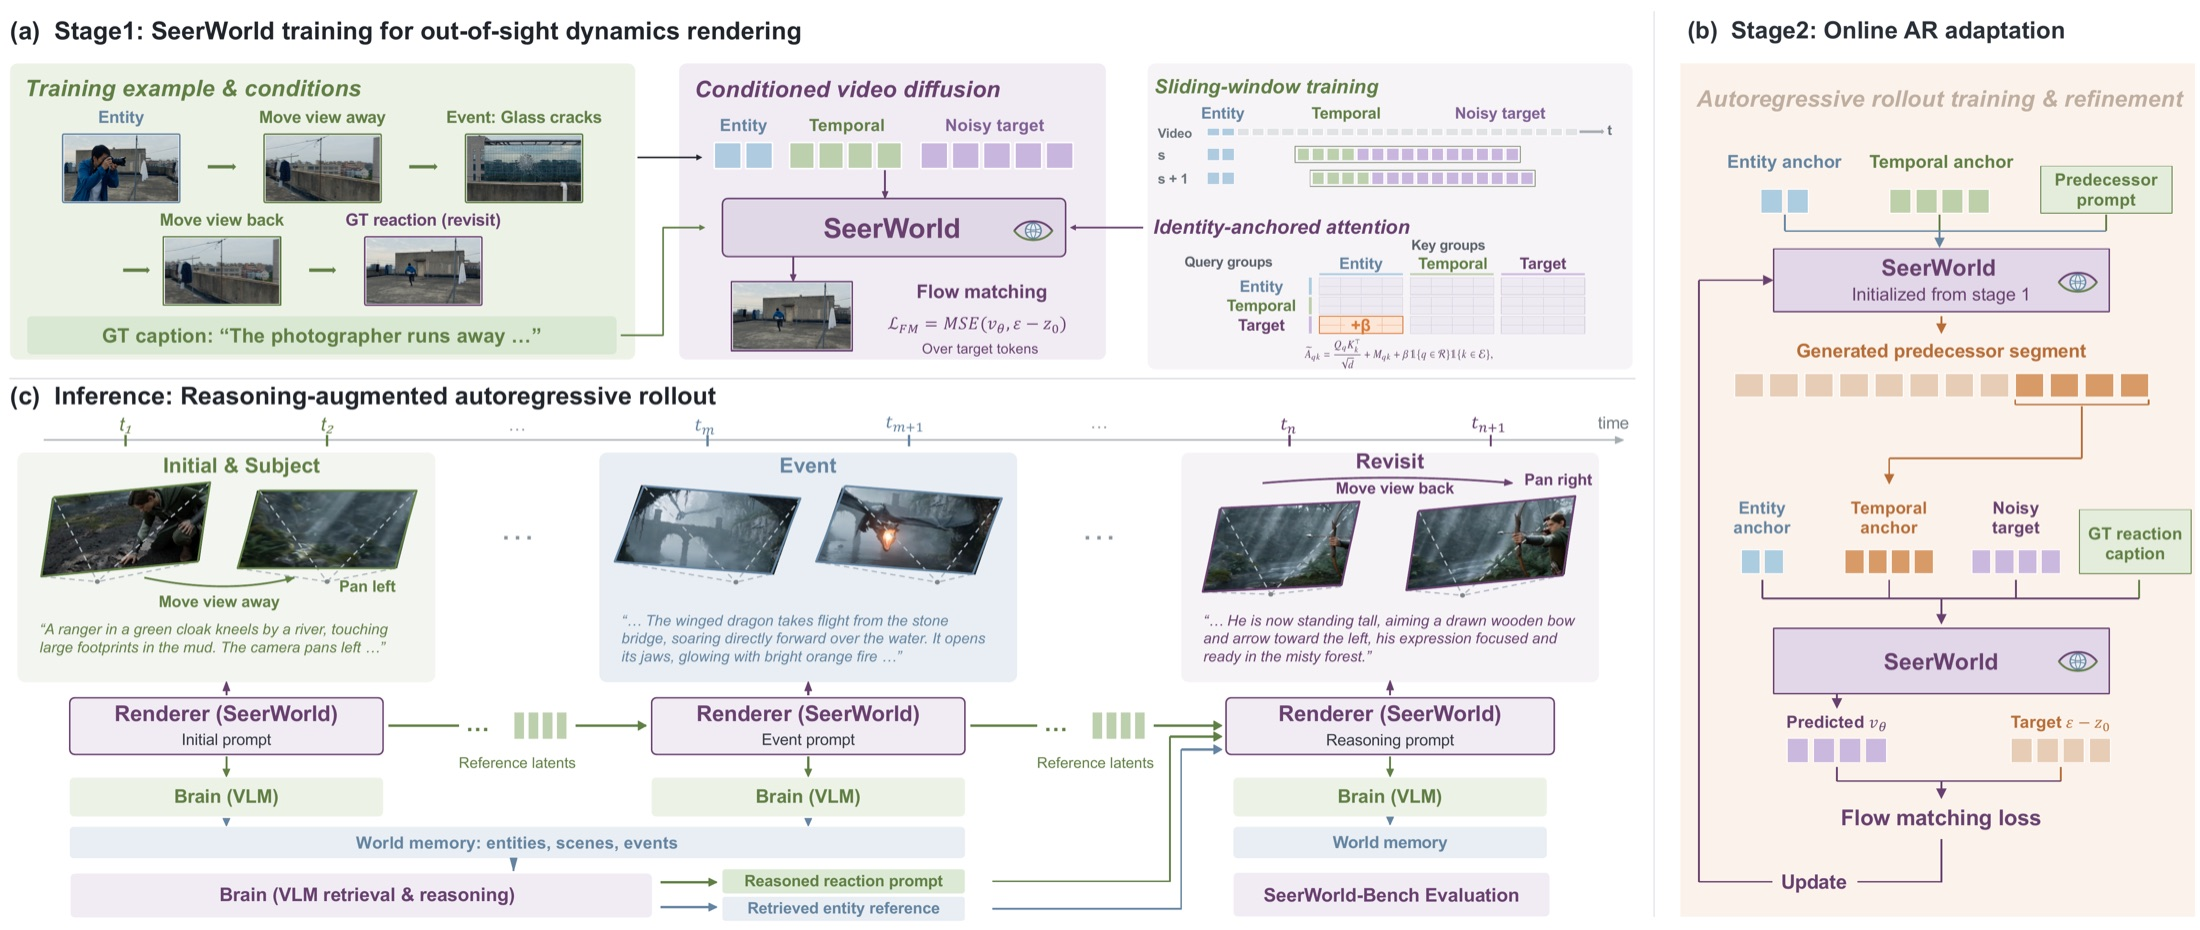
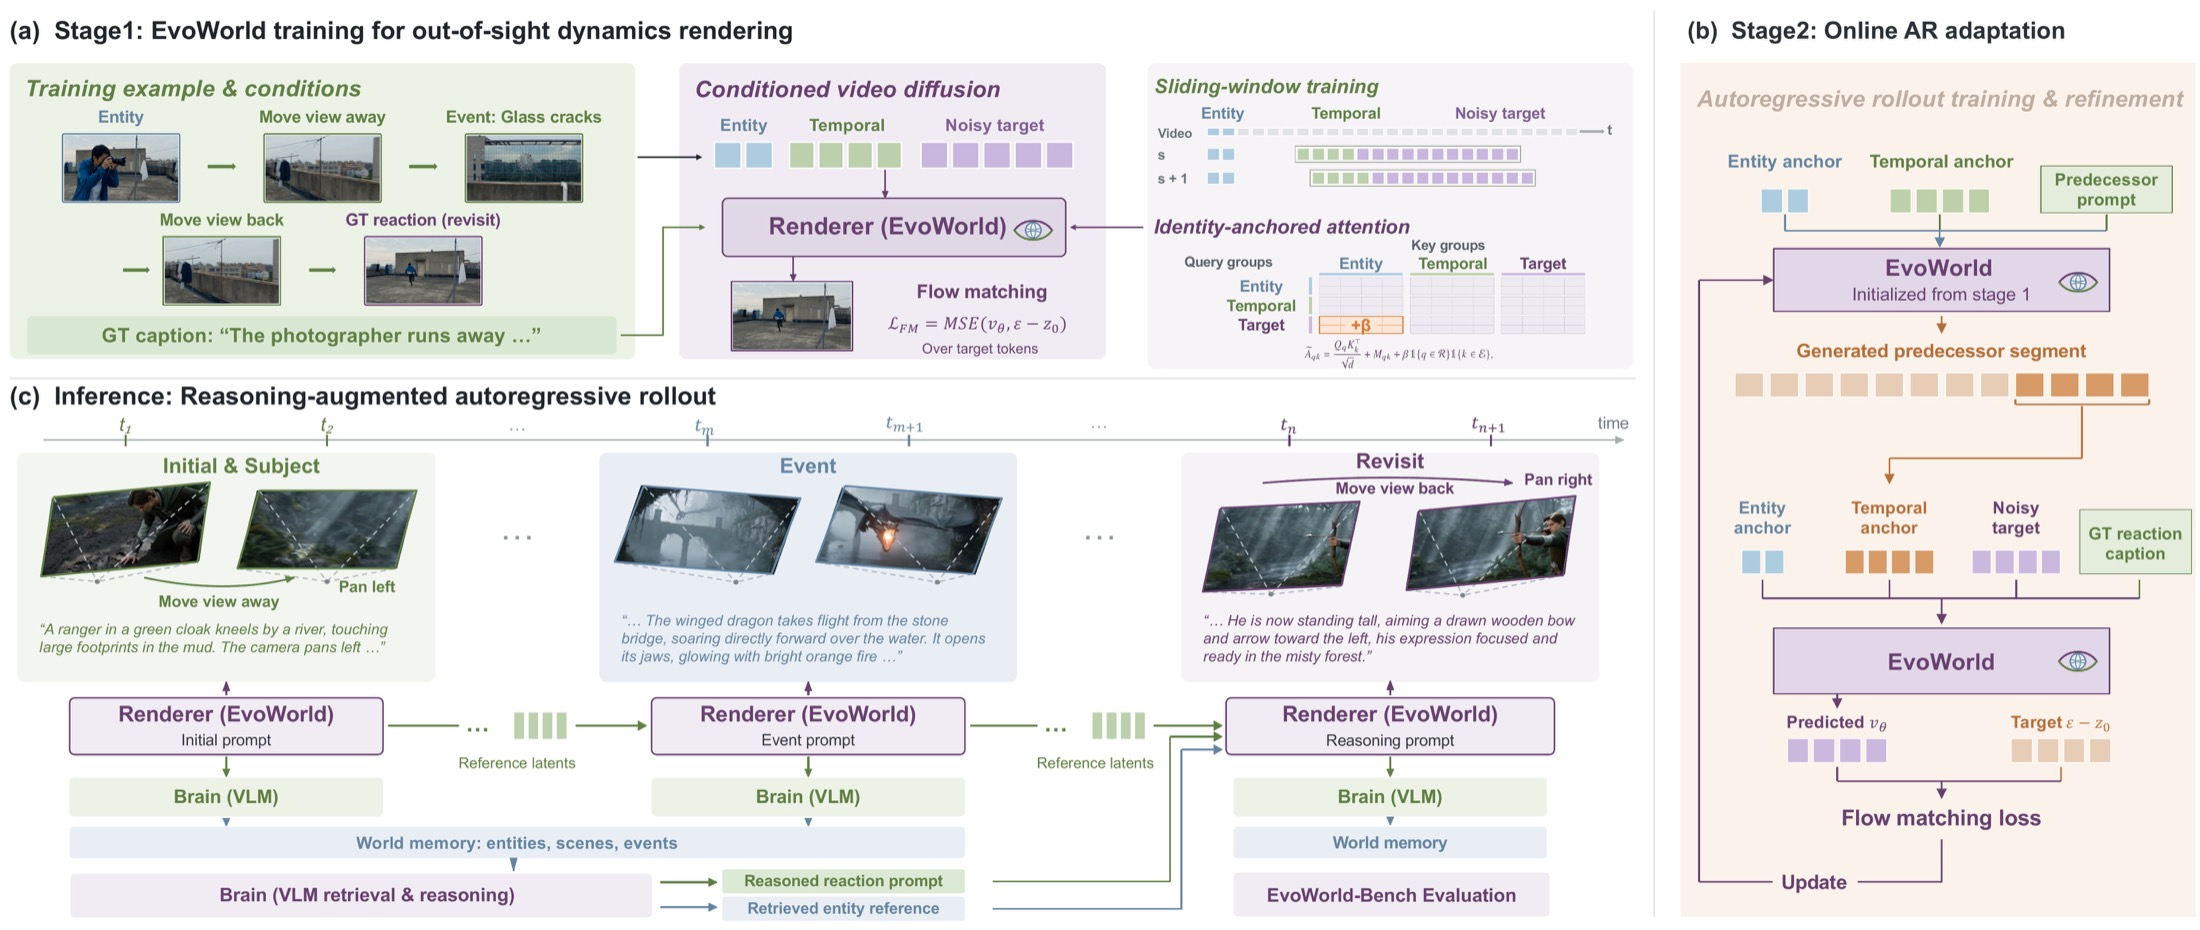
Update EvoWorld citation and results

diff --git a/projects/evoworld/index.html b/projects/evoworld/index.html
@@ -210,7 +210,7 @@
             <tbody>
               <tr><td>LingBot-World</td><td>15.8</td><td>92.5</td><td>77.5</td><td>29.2</td><td>31.3</td><td>68.8</td><td>87.6</td><td>94.6</td><td>98.0</td></tr>
               <tr><td>LingBot-World-v2</td><td>20.0</td><td>76.7</td><td>68.3</td><td>27.1</td><td>25.4</td><td>76.7</td><td>82.6</td><td>92.5</td><td>98.4</td></tr>
-              <tr><td>YUME-1.5</td><td>15.8</td><td>62.5</td><td>86.7</td><td>22.5</td><td>20.0</td><td>65.4</td><td>72.9</td><td>88.7</td><td>—</td></tr>
+              <tr><td>YUME-1.5</td><td>15.8</td><td>62.5</td><td>86.7</td><td>22.5</td><td>20.0</td><td>65.4</td><td>72.9</td><td>88.7</td><td>99.0</td></tr>
               <tr><td>SANA-WM</td><td>13.3</td><td>88.3</td><td>67.5</td><td>26.7</td><td>24.2</td><td>53.8</td><td>67.7</td><td>90.8</td><td>98.7</td></tr>
               <tr><td>Echo-WM</td><td>16.7</td><td>60.8</td><td>66.7</td><td>22.5</td><td>21.7</td><td><u>82.9</u></td><td><u>97.6</u></td><td>89.2</td><td>98.7</td></tr>
               <tr><td>Evoke</td><td>20.0</td><td>95.8</td><td>80.0</td><td><u>32.9</u></td><td><u>36.3</u></td><td>78.3</td><td>93.5</td><td>95.4</td><td>99.0</td></tr>
@@ -277,12 +277,16 @@
     <section class="section citation" id="citation">
       <div class="section-index" aria-hidden="true">07</div>
       <div class="citation-grid reveal">
-        <div><p class="kicker">Citation</p><h2>Build worlds that remember, reason, and evolve.</h2><p>The BibTeX entry will be added when the paper is publicly available.</p></div>
-        <pre><code>@inproceedings{evoworld2027,
-  title  = {EvoWorld: Towards Out-of-Sight World
-            Evolution in Generative Video Models},
-  year   = {2027},
-  note   = {Citation details forthcoming}
+        <div><p class="kicker">Citation</p><h2>Build worlds that remember, reason, and evolve.</h2><p>If you find EvoWorld useful, please cite our paper.</p></div>
+        <pre><code>@article{bie2026evoworld,
+  title   = {EvoWorld: Towards Out-of-Sight World
+             Evolution in Generative Video Models},
+  author  = {Bie, Yequan and Jiang, Dengyang and
+             Chen, Zhixuan and Liang, Xiaozhuan and
+             Che, Haoxuan and Liu, Quande and Chen, Xi and
+             Chen, Hao},
+  journal = {arXiv preprint arXiv:2611.06748},
+  year    = {2026}
 }</code></pre>
       </div>
     </section>
